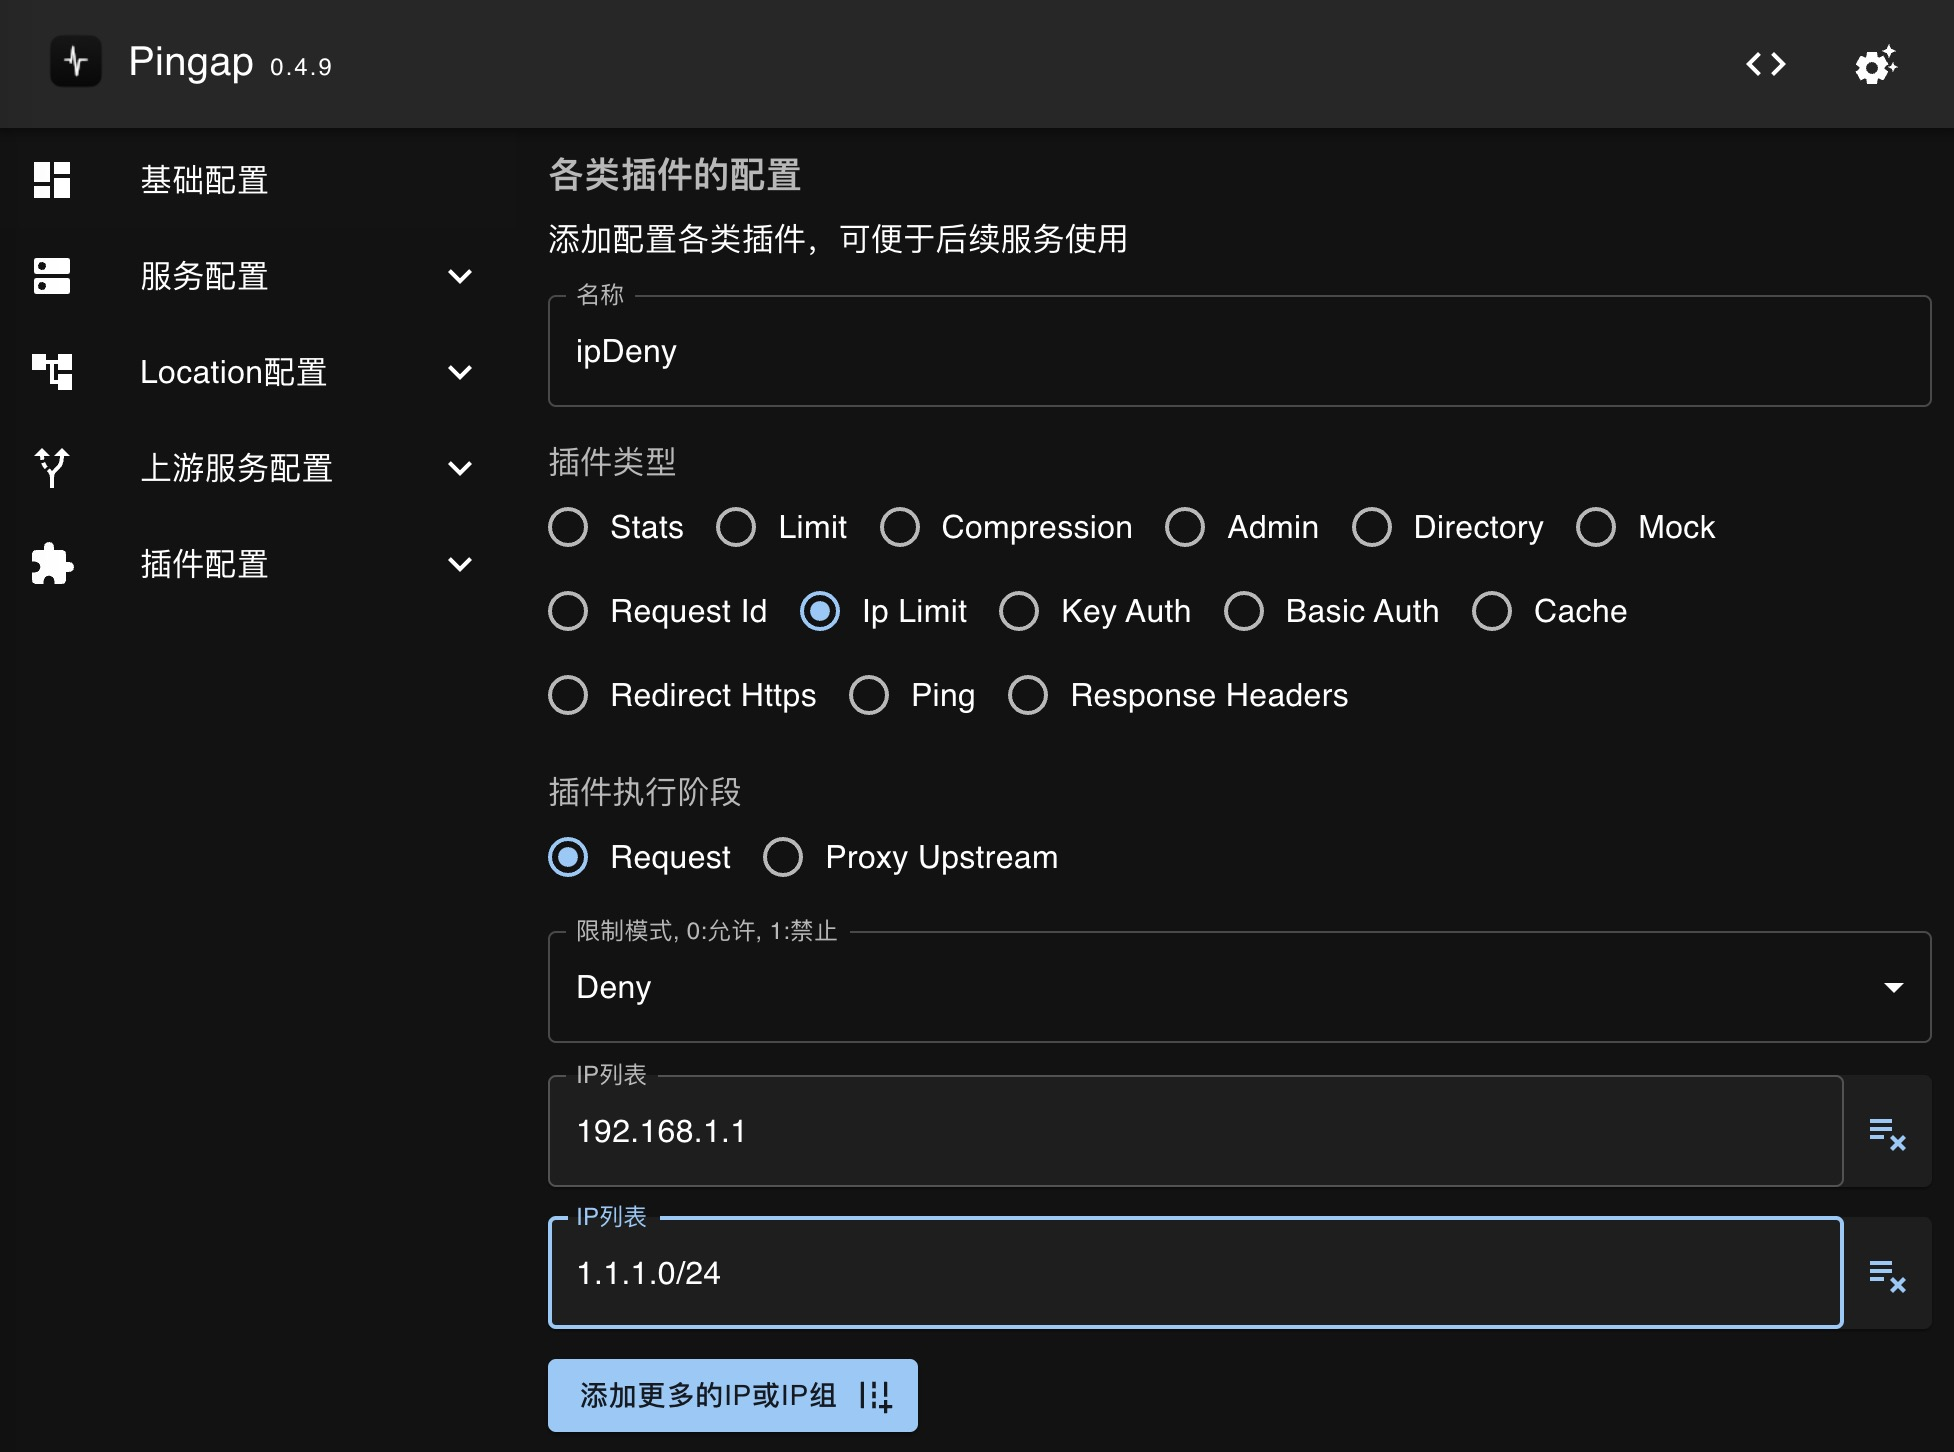
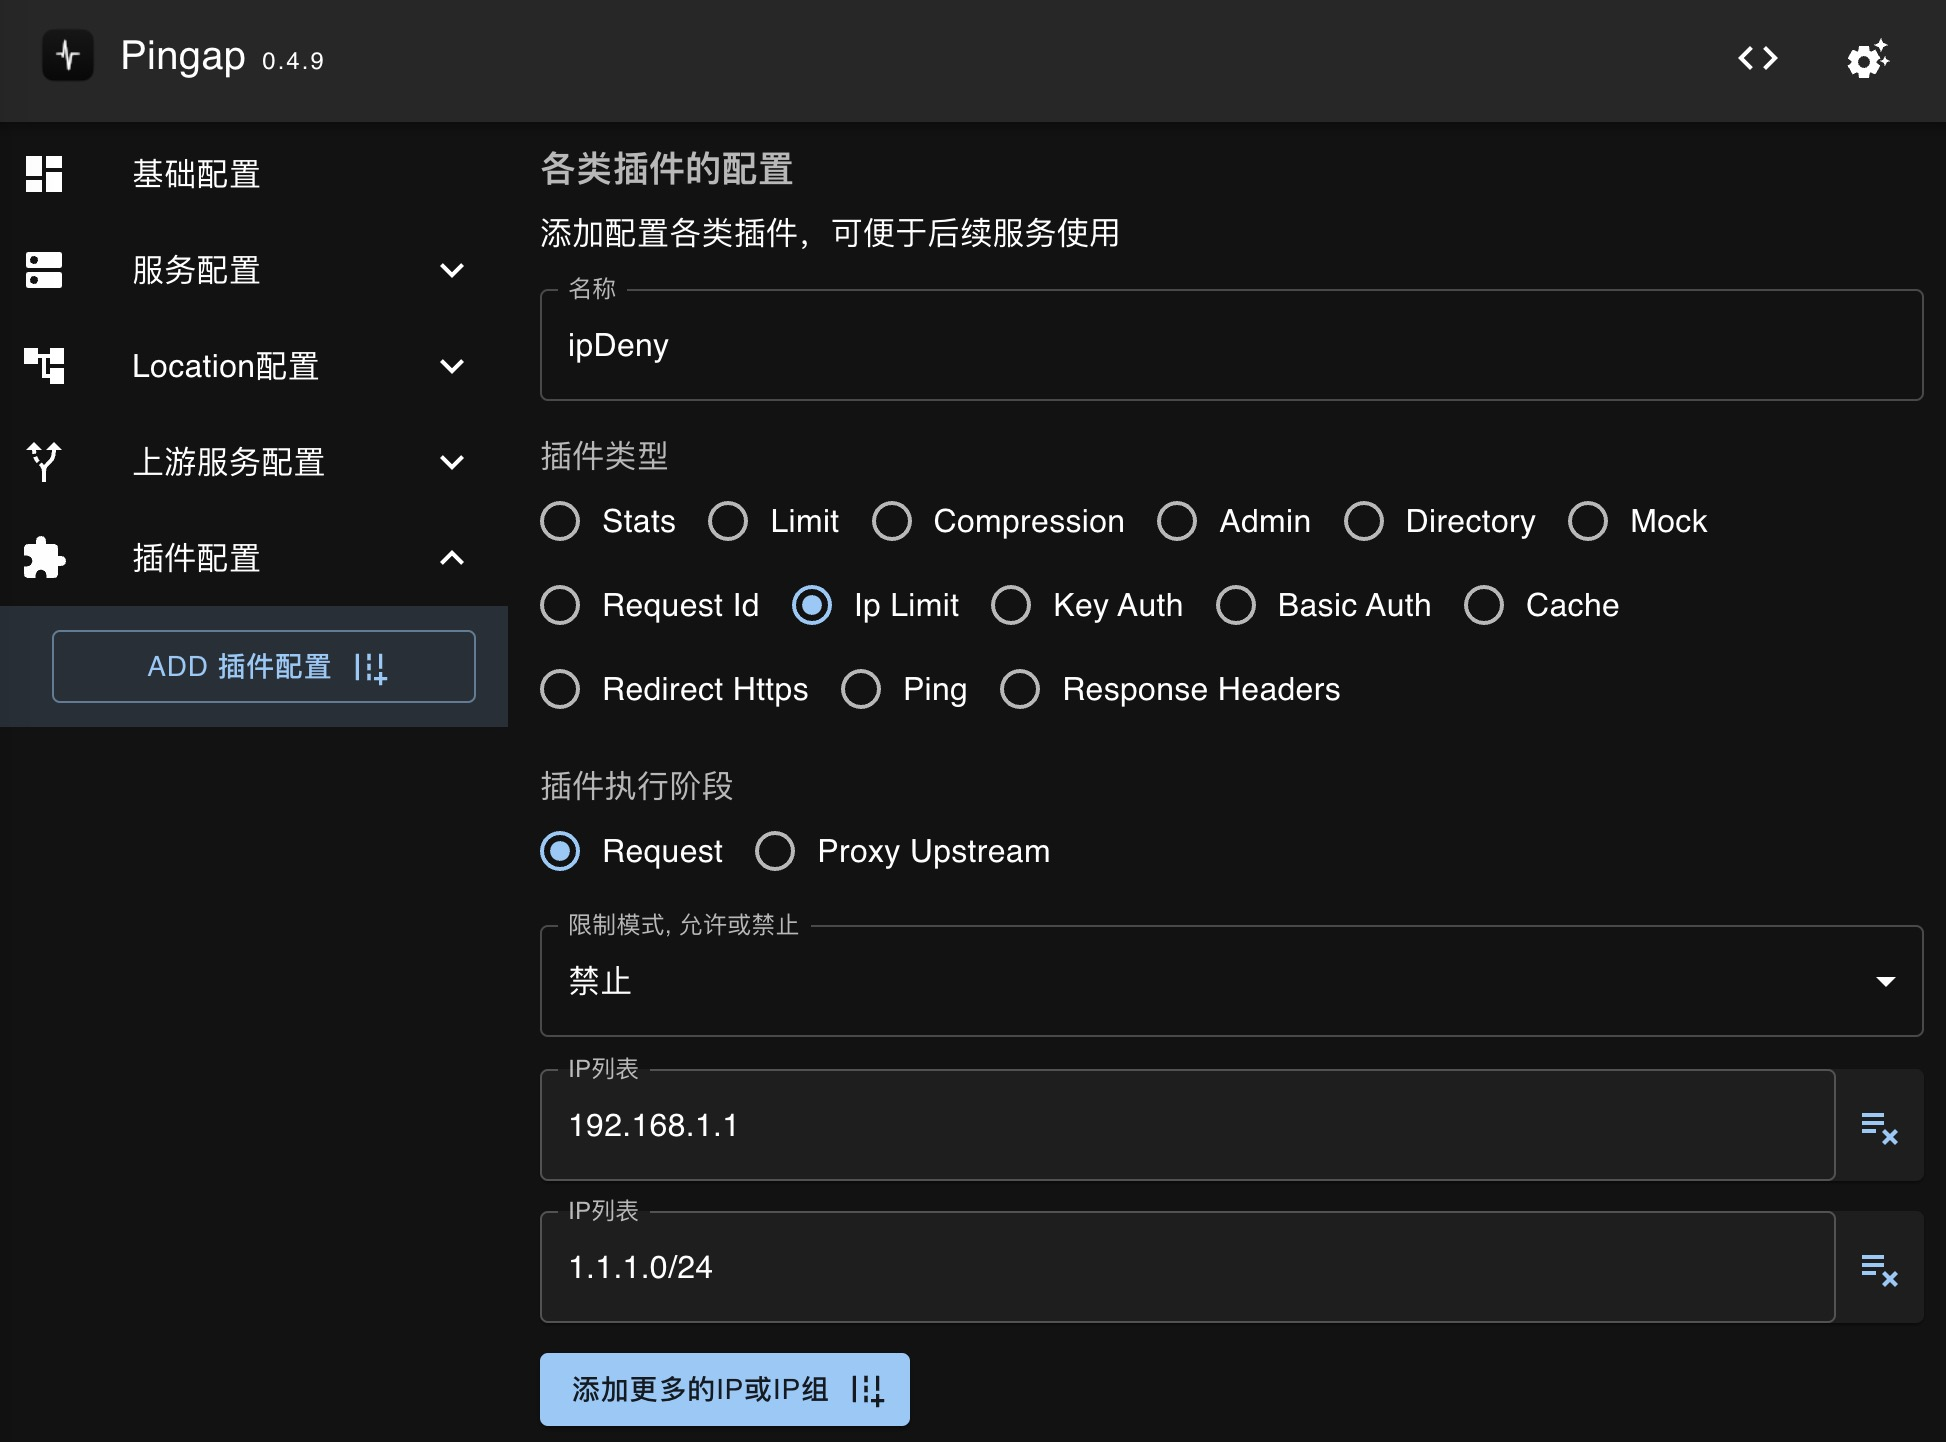
refactor: adjust category of ip limit

diff --git a/web/src/components/form-plugin.tsx b/web/src/components/form-plugin.tsx
@@ -355,14 +355,14 @@ export function FormPluginField({
           span: 12,
           options: [
             {
-              label: "Allow",
+              label: t("form.ipLimitAllow"),
               option: 0,
-              value: 0,
+              value: "allow",
             },
             {
-              label: "Deny",
+              label: t("form.ipLimitDeny"),
               option: 1,
-              value: 1,
+              value: "deny",
             },
           ],
         },
@@ -389,12 +389,12 @@ export function FormPluginField({
             {
               label: "Header",
               option: 0,
-              value: 0,
+              value: "header",
             },
             {
               label: "Query",
               option: 1,
-              value: 1,
+              value: "query",
             },
           ],
         },

diff --git a/web/src/i18n/zh.ts b/web/src/i18n/zh.ts
@@ -145,8 +145,10 @@ export default {
   "form.requestIdLength": "请求ID长度",
   "form.ipList": "IP列表",
   "form.ipLimitAdd": "添加更多的IP或IP组",
-  "form.limitMode": "限制模式, 0:允许, 1:禁止",
-  "form.keyAuthType": "认证key类型，0:header, 1:query",
+  "form.ipLimitAllow": "允许",
+  "form.ipLimitDeny": "禁止",
+  "form.limitMode": "限制模式, 允许或禁止",
+  "form.keyAuthType": "认证key类型，header或者query",
   "form.keyAuthName": "认证key的名称",
   "form.keyAuthValues": "认证值列表",
   "form.keyAuthAdd": "添加认证的值",

diff --git a/web/src/i18n/en.ts b/web/src/i18n/en.ts
@@ -146,8 +146,10 @@ export default {
   "form.requestIdLength": "The length of id",
   "form.ipList": "The ip list",
   "form.ipLimitAdd": "Add more ip or ip net",
-  "form.limitMode": "The limit mode, 0:allow, 1:deny",
-  "form.keyAuthType": "The key auth type, 0:header, 1:query",
+  "form.ipLimitAllow": "Allow",
+  "form.ipLimitDeny": "Deny",
+  "form.limitMode": "The limit mode, allow or deny",
+  "form.keyAuthType": "The key auth type, header or query",
   "form.keyAuthName": "The key name",
   "form.keyAuthValues": "The key value list",
   "form.keyAuthAdd": "Add key value",

diff --git a/src/plugin/key_auth.rs b/src/plugin/key_auth.rs
@@ -12,9 +12,7 @@
 // See the License for the specific language governing permissions and
 // limitations under the License.
 
-use super::{
-    get_int_conf, get_step_conf, get_str_conf, get_str_slice_conf, Error, ProxyPlugin, Result,
-};
+use super::{get_step_conf, get_str_conf, get_str_slice_conf, Error, ProxyPlugin, Result};
 use crate::config::{PluginCategory, PluginConf, PluginStep};
 use crate::http_extra::HttpResponse;
 use crate::state::State;
@@ -27,7 +25,7 @@ use pingora::proxy::Session;
 use std::str::FromStr;
 
 pub struct KeyAuth {
-    category: u8,
+    category: String,
     plugin_step: PluginStep,
     header_name: Option<HeaderName>,
     query_name: Option<String>,
@@ -37,7 +35,7 @@ pub struct KeyAuth {
 }
 
 struct KeyAuthParams {
-    category: u8,
+    category: String,
     plugin_step: PluginStep,
     header_name: Option<HeaderName>,
     query_name: Option<String>,
@@ -49,11 +47,11 @@ impl TryFrom<&PluginConf> for KeyAuthParams {
     fn try_from(value: &PluginConf) -> Result<Self> {
         let step = get_step_conf(value);
 
-        let category = get_int_conf(value, "type") as u8;
+        let category = get_str_conf(value, "type");
         let name = get_str_conf(value, "name");
         let mut query_name = None;
         let mut header_name = None;
-        if category == 1 {
+        if category == "query" {
             query_name = Some(name);
         } else {
             header_name = Some(HeaderName::from_str(&name).map_err(|e| Error::Invalid {
@@ -123,16 +121,16 @@ impl ProxyPlugin for KeyAuth {
         session: &mut Session,
         _ctx: &mut State,
     ) -> pingora::Result<Option<HttpResponse>> {
-        let value = if self.category == 0 {
-            self.header_name
-                .as_ref()
-                .map(|v| session.get_header_bytes(v))
-        } else {
+        let value = if self.category == "query" {
             self.query_name.as_ref().map(|name| {
                 util::get_query_value(session.req_header(), name)
                     .unwrap_or_default()
                     .as_bytes()
             })
+        } else {
+            self.header_name
+                .as_ref()
+                .map(|v| session.get_header_bytes(v))
         };
         if value.is_none() {
             return Ok(Some(self.miss_authorization_resp.clone()));

diff --git a/src/plugin/ip_limit.rs b/src/plugin/ip_limit.rs
@@ -12,7 +12,7 @@
 // See the License for the specific language governing permissions and
 // limitations under the License.
 
-use super::{get_int_conf, get_step_conf, get_str_slice_conf, Error, ProxyPlugin, Result};
+use super::{get_step_conf, get_str_conf, get_str_slice_conf, Error, ProxyPlugin, Result};
 use crate::config::{PluginCategory, PluginConf, PluginStep};
 use crate::http_extra::HttpResponse;
 use crate::state::State;
@@ -30,7 +30,7 @@ pub struct IpLimit {
     plugin_step: PluginStep,
     ip_net_list: Vec<IpNet>,
     ip_list: Vec<String>,
-    category: u8,
+    category: String,
     forbidden_resp: HttpResponse,
 }
 
@@ -38,7 +38,7 @@ struct IpLimitParams {
     plugin_step: PluginStep,
     ip_net_list: Vec<IpNet>,
     ip_list: Vec<String>,
-    category: u8,
+    category: String,
 }
 
 impl TryFrom<&PluginConf> for IpLimitParams {
@@ -59,7 +59,7 @@ impl TryFrom<&PluginConf> for IpLimitParams {
             plugin_step: step,
             ip_list,
             ip_net_list,
-            category: get_int_conf(value, "type") as u8,
+            category: get_str_conf(value, "type"),
         };
         if ![PluginStep::Request, PluginStep::ProxyUpstream].contains(&params.plugin_step) {
             return Err(Error::Invalid {
@@ -125,7 +125,11 @@ impl ProxyPlugin for IpLimit {
             }
         };
         // deny ip
-        let allow = if self.category > 0 { !found } else { found };
+        let allow = if self.category == "deny" {
+            !found
+        } else {
+            found
+        };
         if !allow {
             return Ok(Some(self.forbidden_resp.clone()));
         }
@@ -155,7 +159,7 @@ ip_list = [
     "1.1.1.0/24",
     "2.1.1.0/24",
 ]
-type = 1
+type = "deny"
 "###,
             )
             .unwrap(),
@@ -179,7 +183,7 @@ type = 1
         let deny = IpLimit::new(
             &toml::from_str::<PluginConf>(
                 r###"
-type = 1
+type = "deny"
 ip_list = [
     "192.168.1.1",
     "1.1.1.0/24",

diff --git a/docs/plugin_zh.md b/docs/plugin_zh.md
@@ -198,7 +198,7 @@ size = 8
 
 ## IpLimit
 
-Ip限制分为两种模式，允许(0)，禁止(1)，ip可支持配置为单ip或ip组，配置如下：
+Ip限制分为两种模式，允许，禁止，ip可支持配置为单ip或ip组，配置如下：
 
 ```toml
 [plugins.ipDeny]
@@ -207,7 +207,7 @@ ip_list = [
     "192.168.1.1",
     "1.1.1.0/24",
 ]
-type = 1
+type = "deny""
 ```
 
 界面配置如图所示，配置IP列表后，填写是允许还是禁止即可：
@@ -230,7 +230,7 @@ keys = [
     "GKvXY2",
 ]
 name = "app"
-type = 1
+type = "query"
 ```
 
 从header中的X-App字段中获取校验：
@@ -243,7 +243,7 @@ keys = [
     "GKvXY2",
 ]
 name = "X-App"
-type = 0
+type = "header"
 ```
 
 界面配置如图所示，配置key的名称，再配置符合的值即可：
